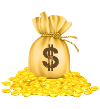
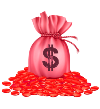
Changed background
Still need to work on coin checkMatch function

diff --git a/personalproject2710/jscript.js b/personalproject2710/jscript.js
@@ -2,8 +2,8 @@ var i = 100;
 var j = 50;
 var palmTop = 100 ;
 var plamLfet = 50;
-var coinTop = 100;
-var coinLeft = 50;
+var coinTop = 0;
+var coinLeft = 0;
 var score = 0;
 var selectArray = ["demo","demo1"];
 function startG(){
@@ -14,6 +14,7 @@ function startG(){
     palmLeft = palmLeft * 100;
     document.getElementById("palm1").style.top = palmTop +"px";
     document.getElementById("palm1").style.left = palmLeft+"px";
+    randomCoin()
 }
 function randomCoin(){
     coinTop = Math.floor(Math.random()*4);
@@ -28,17 +29,18 @@ function checkMatch(){
     if (coinTop == j  && coinLeft == i ) {
         score = score +100;
        randomCoin()
-      document.getElementById("score").innerHTML = score
+       startG()
+      document.getElementById("score").innerHTML = "SCORE: $" +score
         
     }
 }
 
 
 function mover() {
-    
+    checkMatch()
     if ( i!= palmLeft  || j !== palmTop  + 150 && j != palmTop + 100 ){
         while (i < 700 ){
-            checkMatch()
+            
             i = i + 100
             document.getElementById("monster").style.left = i+"px";
             document.getElementById("monster").style.right = i +"px";
@@ -50,10 +52,10 @@ function mover() {
     
 }
 function movel(){
-    
+    checkMatch()
     if ( i!= palmLeft +200  || j !== palmTop+100 && j != palmTop+150){
             while (i > 100){
-                checkMatch()
+                
             i = i - 100
             document.getElementById("monster").style.left = i+"px";
             document.getElementById("monster").style.right = i +"px";

diff --git a/personalproject2710/index.html b/personalproject2710/index.html
@@ -22,21 +22,21 @@
     </div>
 </div>
 <div id="buttons">
-    <button id="up" onclick="moveu()"> &uarr; </button><p></p>
-    <button id="left" onclick="movel()"> &larr; </button>
-    <button id="right" onclick="mover()">&rarr; </button>
+    <button id="up" onclick="moveu()"> &#5123; </button><p></p>
+    <button id="left" onclick="movel()"> &#5130; </button>
+    <button id="right" onclick="mover()">&#5125; </button>
     <p></p>
-    <button id="down" onclick="moved()"> &darr; </button>
+    <button id="down" onclick="moved()"> &#5121; </button>
 </div>
 <div id="startbutton">
-    Click here to start
-    <button id="startB" onclick="startG()">Random Palm</button>
+    
+    <button id="startB" onclick="startG()">START!</button>
     <p>    </p>
     <button id="coinrand" onclick="randomCoin()">Rand coin</button>
 
 </div>
 <p id="score">
-    SCORE:
+    SCORE: $0
 </p>
 
 </body>

diff --git a/personalproject2710/project1.css b/personalproject2710/project1.css
@@ -25,7 +25,7 @@
 }
 #right {
   border-radius: 50%;
-  left: 1cm;
+  left: 45px;
   position: relative;
 }
 #up {
@@ -56,7 +56,9 @@
   border-right-color: rgb(23, 23, 165);
   border-bottom-color: rgb(51, 51, 182);
   background-color: cadetblue;
-  background-image: url("https://upload.wikimedia.org/wikipedia/commons/thumb/5/5a/Sand.jpg/1024px-Sand.jpg");
+  background-image: url("https://imagebee.org/nature/free-beach-sand/free-beach-sand-wallpaper-22206-22763-hd-wallpapers-1920x1200.jpg");
+  z-index: -1;
+  background-size: cover;
 }
 #palm1 {
   left: 200px;
@@ -72,5 +74,11 @@
 
   height: 100px;
   width: 100px;
-  z-index: 9;
+  float: inline-end;
+}
+body {
+  background-color: black;
+}
+#score {
+  color: yellow;
 }

diff --git a/personalproject2710/index2.html b/personalproject2710/index2.html
@@ -1,0 +1,35 @@
+<!DOCTYPE html>
+<html>
+  <head>
+    <title>Title of the document</title>
+    <style>
+      .container {
+        width: 150px;
+        height: 150px;
+        position: relative;
+        margin: 30px;
+        background-color: black;
+      }
+      .box {
+        width: 100%;
+        height: 100%;
+        position: absolute;
+        top: 0;
+        left: 0;
+        opacity: 0.7;
+        background: #0057e3;
+      }
+      .overlay {
+        z-index: 9;
+        margin: 30px;
+        background: #009938;
+      }
+    </style>
+  </head>
+  <body>
+    <div class="container">
+      <div class="box"></div>
+      <div class="box overlay"></div>
+    </div>
+  </body>
+</html>
